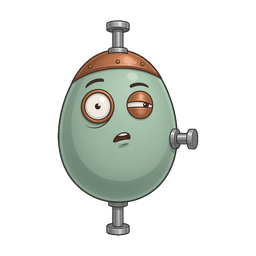
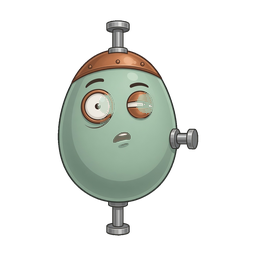
fix(lab): clear baked pupils; thin face overlay (#218)
Erase PNG pupils (keep glass/visor frames) and soften baked mouths so
CSS animates one pupil pair + mouth in the sockets. Drop face-plate and
fake glass rings that stacked into a second face (Jacob HITL lock).

Changed region(s): [[0.375, 0.3438, 0.4688, 0.5], [0.5312, 0.3438, 0.625, 0.4688], [0.4375, 0.5, 0.5312, 0.5625]]

diff --git a/src/style.css b/src/style.css
@@ -960,69 +960,45 @@ html.native-shell #app {
   pointer-events: none;
 }
 
-/* Idle face overlay (#218) — hidden at rest (PNG face shows); visible only while expressing. */
+/* Idle face overlay (#218) — pupils always in PNG sockets; mouth only while expressing.
+   No face-plate / fake glass rings (those stacked into a second face on HITL). */
 .botevo-face {
   position: absolute;
-  /* Centered on glasses+mouth; sized for 390 readability; clear of rim pistons. */
-  left: 29%;
-  top: 34%;
-  width: 42%;
-  height: 36%;
+  /* Aligned to glass/visor sockets on 256px botevo-art (~42%/58% x, ~42% y). */
+  left: 30%;
+  top: 30%;
+  width: 40%;
+  height: 38%;
   z-index: 3;
   pointer-events: none;
   display: block;
-  opacity: 0;
-}
-
-.botevo-face.is-blink,
-.botevo-face.is-look,
-.botevo-face.is-excite {
   opacity: 1;
-}
-
-.botevo-face-plate {
-  position: absolute;
-  left: 14%;
-  top: 10%;
-  width: 72%;
-  height: 70%;
-  border-radius: 50%;
-  opacity: 0.98;
 }
 
 .botevo-eye {
   position: absolute;
-  top: 14%;
-  width: 34%;
-  height: 40%;
+  top: 12%;
+  width: 28%;
+  height: 32%;
   z-index: 2;
 }
 
 .botevo-eye.left {
-  left: 12%;
+  left: 14%;
 }
 
 .botevo-eye.right {
-  right: 12%;
-}
-
-.botevo-glass {
-  position: absolute;
-  inset: 0;
-  border-radius: 50%;
-  border: 2px solid #222;
-  background: #fff;
-  box-sizing: border-box;
+  right: 14%;
 }
 
 .botevo-pupil {
   position: absolute;
   left: 50%;
-  top: 54%;
-  width: 48%;
-  height: 48%;
-  margin-left: -24%;
-  margin-top: -24%;
+  top: 52%;
+  width: 42%;
+  height: 42%;
+  margin-left: -21%;
+  margin-top: -21%;
   border-radius: 50%;
   background: #1a1a1a;
   z-index: 1;
@@ -1031,9 +1007,9 @@ html.native-shell #app {
 
 .botevo-lid {
   position: absolute;
-  left: 2%;
-  right: 2%;
-  top: 2%;
+  left: 0;
+  right: 0;
+  top: 0;
   height: 0;
   border-radius: 50% 50% 40% 40%;
   background: #2a2218;
@@ -1045,18 +1021,24 @@ html.native-shell #app {
 .botevo-mouth {
   position: absolute;
   left: 30%;
-  top: 66%;
+  top: 68%;
   width: 40%;
-  height: 22%;
+  height: 20%;
   z-index: 2;
   border-radius: 0 0 60% 60%;
-  border: 2.5px solid #222;
+  border: 2px solid #222;
   border-top: none;
   background: transparent;
   box-sizing: border-box;
+  opacity: 0;
 }
 
-/* Blink — full face patch + lids (PNG face briefly covered so lids align). */
+.botevo-face.is-look .botevo-mouth,
+.botevo-face.is-excite .botevo-mouth {
+  opacity: 1;
+}
+
+/* Blink — lids only over cleared sockets (no plate cover). */
 .botevo-face.is-blink .botevo-lid {
   animation: botevo-blink-lid var(--botevo-blink-ms, 150ms) ease-in-out forwards;
   background: #1a1410;
@@ -1181,20 +1163,16 @@ html.native-shell #app {
   }
 }
 
-/* Queue excitement — mild wide eyes + micro-bounce; does not steal playfield. */
+/* Queue excitement — mild pupil widen + micro-bounce; does not steal playfield. */
 .botevo-face.is-excite {
   animation: botevo-queue-excite var(--botevo-excite-ms, 280ms) ease-out;
 }
 
-.botevo-face.is-excite .botevo-eye {
-  transform: scale(1.12);
-}
-
 .botevo-face.is-excite .botevo-pupil {
-  width: 44%;
-  height: 44%;
-  margin-left: -22%;
-  margin-top: -22%;
+  width: 52%;
+  height: 52%;
+  margin-left: -26%;
+  margin-top: -26%;
 }
 
 @keyframes botevo-queue-excite {

diff --git a/src/lab/botevoFaces.ts b/src/lab/botevoFaces.ts
@@ -1,6 +1,6 @@
 /**
  * Bot Evolution idle faces (#218).
- * Overlay eyes + mouth on existing PNGs; exclusive playfield director.
+ * Thin pupil+mouth overlay on cleared PNG sockets; exclusive playfield director.
  */
 import {
   BOT_COLS,
@@ -10,8 +10,6 @@ import {
   DIR_S,
   DIR_W,
   PIECE_SOCKETS,
-  SHELL_FILL,
-  connectorKind,
   type PieceId,
 } from "./botEvolution";
 
@@ -153,28 +151,23 @@ function lerpRandom(lo: number, hi: number, rng: () => number): number {
   return lo + (hi - lo) * rng();
 }
 
-/** Append eyes+mouth overlay covering the baked PNG face. */
+/**
+ * Append a thin face overlay: one pupil pair (+ lids) + mouth, aligned to
+ * PNG glass/visor sockets. No face-plate or fake glass rings (#218 HITL).
+ */
 export function appendBotFace(wrap: HTMLElement, piece: PieceId): HTMLElement {
   const face = document.createElement("span");
   face.className = "botevo-face";
   face.dataset.piece = piece;
   face.setAttribute("aria-hidden", "true");
 
-  const plate = document.createElement("span");
-  plate.className = "botevo-face-plate";
-  plate.style.background = SHELL_FILL[connectorKind(piece)];
-  face.appendChild(plate);
-
   for (const side of ["left", "right"] as const) {
     const eye = document.createElement("span");
     eye.className = `botevo-eye ${side}`;
-    const glass = document.createElement("span");
-    glass.className = "botevo-glass";
-    const lid = document.createElement("span");
-    lid.className = "botevo-lid";
     const pupil = document.createElement("span");
     pupil.className = "botevo-pupil";
-    eye.appendChild(glass);
+    const lid = document.createElement("span");
+    lid.className = "botevo-lid";
     eye.appendChild(pupil);
     eye.appendChild(lid);
     face.appendChild(eye);

diff --git a/evander-218-fix.md b/evander-218-fix.md
@@ -1,0 +1,70 @@
+# Evander #218 face fix — one pair of pupils, not two faces
+
+**Branch:** `feat/botevo-faces-218` · **PR:** #221 · **Issue:** #218  
+**Lock:** Jacob HITL — erase baked pupils (keep glasses/visor frames), animate one small pupil pair + mouth in those sockets; no thick second face.
+
+## Fail
+
+Thick CSS eye overlays (face-plate + white glass rings + pupils) sat on top of printed pupils/glasses → **two faces** visible.
+
+## Art (`src/lab/botevo-art/*.png`)
+
+Pillow edit on all **11** piece PNGs (256×256 RGBA):
+
+1. **Pupils / eye interiors** — for each hand-tuned socket center, fill dark pupil pixels (and mid-dark iris / hot white sclera that fight animation) with nearby **lens cream** or **visor band** color sampled from the same socket. Soft falloff toward the rim.
+2. **Frames kept** — glass rings (round-glasses pieces) and cyan/teal visor frames (`i`, `dash`) are outside the clear radius and left intact.
+3. **Mouths softened** — dark baked smile strokes blended toward cheek/shell color so the animated smile/hope is the single clean mouth.
+
+Notable results:
+
+| Family | What cleared | What kept |
+| --- | --- | --- |
+| `dash`, `i` | Dark oval pupils in visor | Visor frame / band |
+| `plus`, `t-*`, `l-*` | Interior pupil/dark fill in lenses | Round glass frames + cream sockets |
+
+Backups from before the wipe live only in the local scratch dir (not committed).
+
+## Overlay code
+
+### `src/lab/botevoFaces.ts` — `appendBotFace`
+
+- **Removed** `.botevo-face-plate` (shell-colored disc that covered the PNG face).
+- **Removed** `.botevo-glass` (second pair of white rings).
+- Overlay DOM is now: **pupil + lid** per eye, plus **mouth** only.
+
+Director rules unchanged: exclusive one playfield expression; milder queue excitement; Pause freezes drill clock; no morph/recycle idle.
+
+### `src/style.css`
+
+- Face overlay **always** shows rest pupils in the cleared sockets (`opacity: 1`).
+- Mouth **hidden at rest** (`opacity: 0`); visible on `is-look` / `is-excite`.
+- Blink = lids only (no plate cover).
+- Tuned box toward PNG sockets (~42%/58% x, ~42% y on the 256px art).
+- Smaller pupils; no fake glass border/fill.
+
+### `src/main.ts`
+
+No logic change beyond existing `appendBotFace` hook in `appendBotSprite`.
+
+## Kept (product locks)
+
+- Exclusive one playfield expression
+- Queue milder/shorter excitement
+- Pause freeze (`is-face-paused` + drill clock)
+- No morph / recycle idle starts
+- No #219 pixelation work
+
+## Risks / HITL watch
+
+- Socket alignment may need a one-pixel nudge per family after Jacob watches 390×844.
+- Visor pieces (`i`/`dash`) vs round-glasses share one overlay geometry — if pupils look off on one family, prefer a tiny CSS tweak over regenerating art.
+- Rest pose now shows static pupils (empty sockets would look wrong after the PNG wipe).
+
+## Verify
+
+```bash
+npm run typecheck
+npm test
+```
+
+HITL: Lab → egg-bot-evolution, 20–30s play — one face per bot, blink/look/hope, Pause freeze, morph chain clean.
